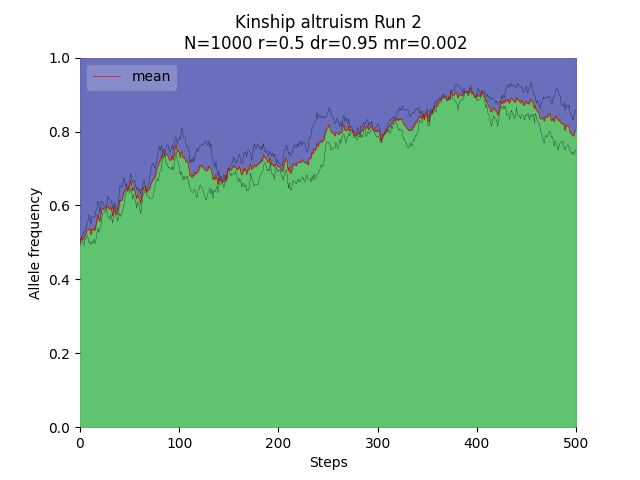
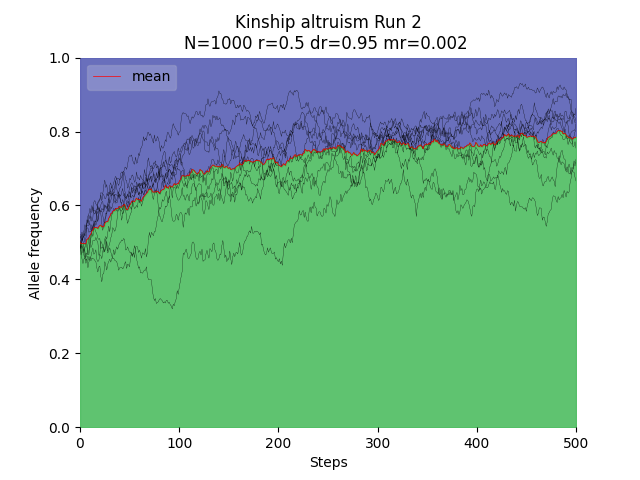
multi graph fixed -- needing polish

diff --git a/hamilton_basic/plotter.py b/hamilton_basic/plotter.py
@@ -13,7 +13,6 @@ def plot_prevalence(data, title=""):
     """
     function used to plot the mean of the allele prevalence across several simulation
     """
-    # data = data.drop(columns=["N", "r", "RunId"])
     # masking the values of each iteration
     # creating a boolean mask for each iteration to be plotted
     msk = [data["iteration"] == i for i in data["iteration"].unique()]
@@ -51,6 +50,9 @@ def plot_prevalence(data, title=""):
 
 
 def get_param_ID(data, params=["N", "r", "sr", "mr"]):
+    """
+
+    """
     data["pID"] = data[params].astype(str).sum(axis=1)
     mapdict = {data["pID"].unique()[i]: i for i in range(len(data["pID"].unique()))}
     data["pID"] = data["pID"].apply(lambda x: mapdict[x])
@@ -63,16 +65,10 @@ def multi_plot_prevalence(data, params=["N", "r", "sr", "mr"]):
     in multiple plots
     """
     data = get_param_ID(data, params)
-    # print(mapdict)
-    print(data["pID"])
-    msk = [data[["N", "r", "sr", "mr"]] == i for i in params]
-
-    # print(msk)
+    msk = [data["pID"] == i for i in data["pID"].unique()]
     for m in msk:
-        # print(data[m]["iteration"].unique())
         plot_prevalence(data[m].reset_index(drop=True), title=f"Run {data[m]['pID'].max() + 1}")
-    # print(data)
-    # msk = [data["iteration"] == i for i in data["iteration"].unique()]
+
 
 
 def f(x, y, n):
